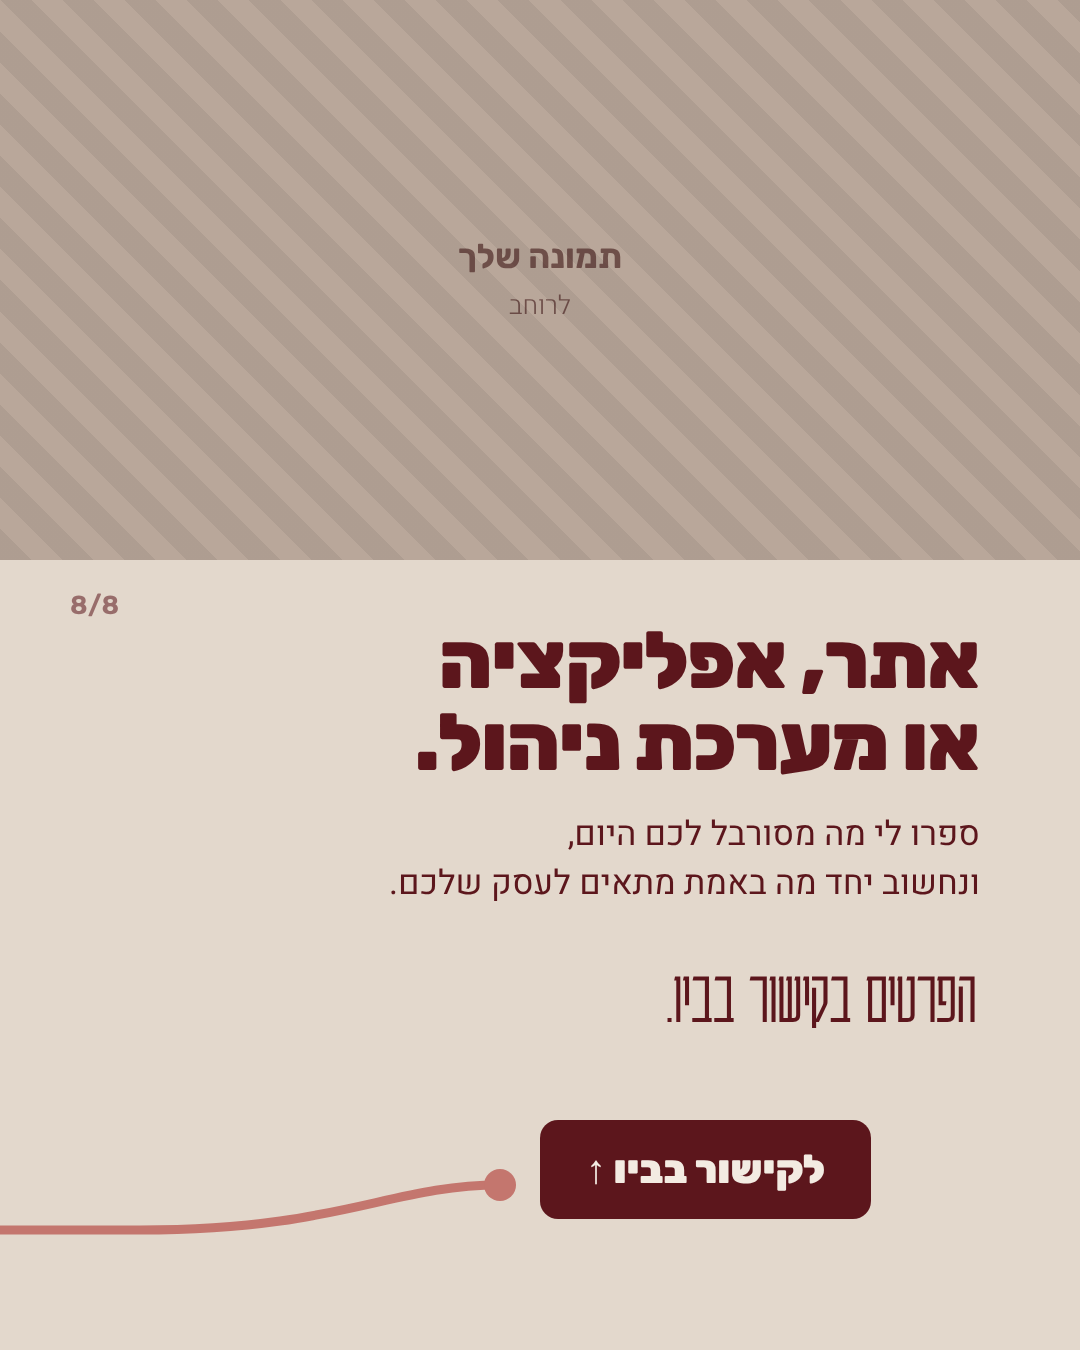
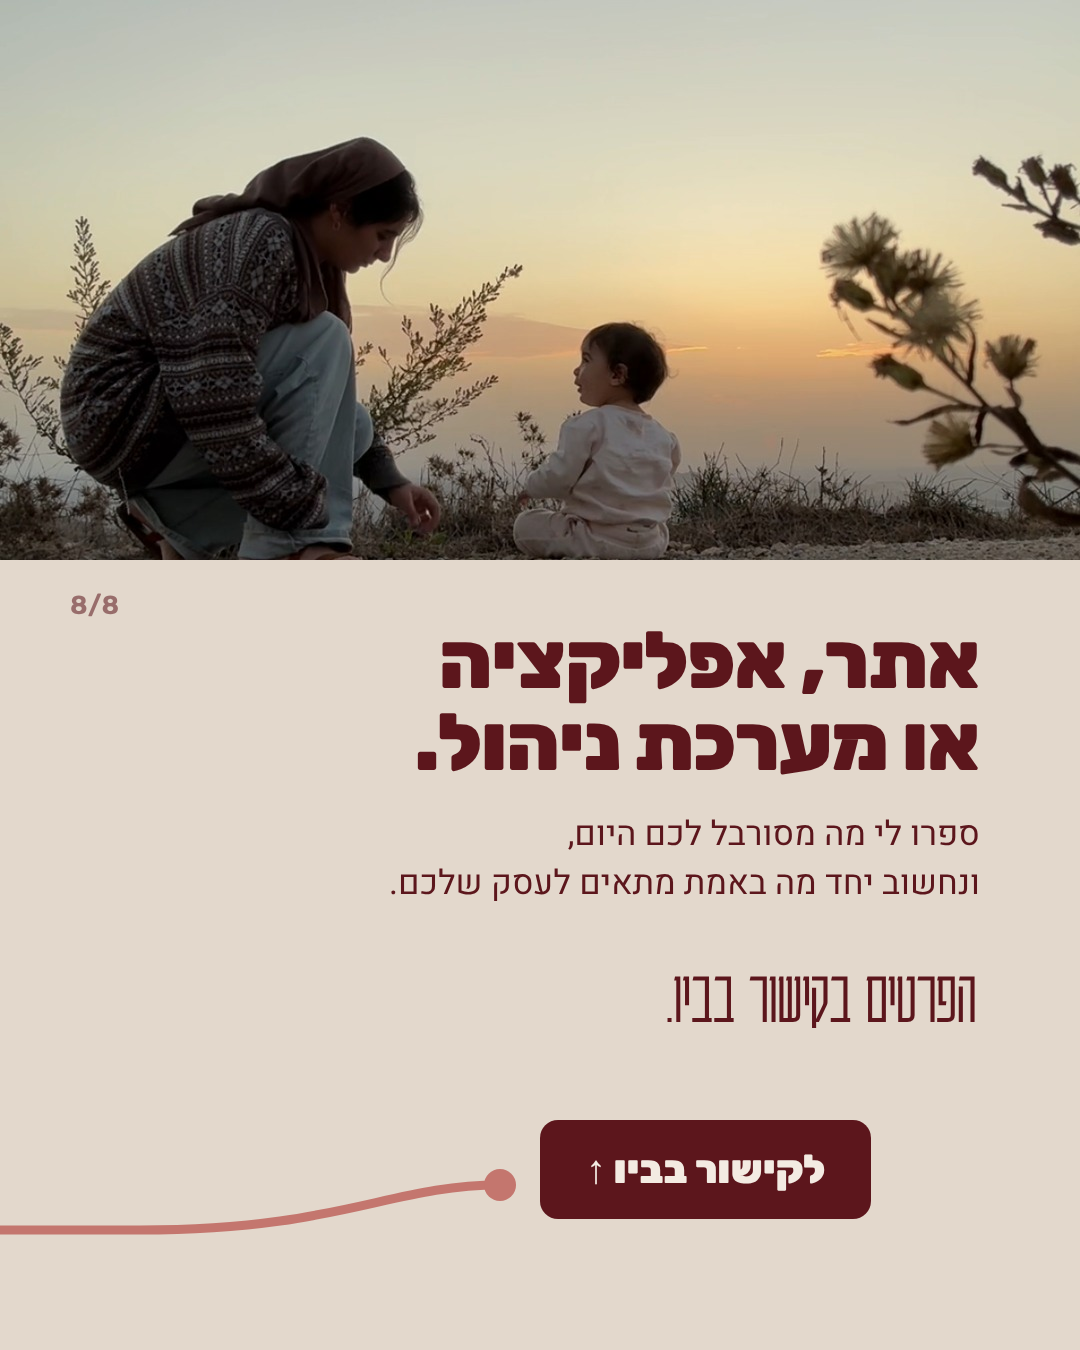
Carousel v2: add user photos and app screenshot
Claude-Session: https://claude.ai/code/session_01FAztRogrK4u7GmN3YWcRGe

diff --git a/carousels/small-business-v2/slides.html b/carousels/small-business-v2/slides.html
@@ -40,9 +40,9 @@ body{background:#111;width:8640px}
 <div class="bg" style="left:7560px;width:1080px;background:var(--sand)"></div>
 
 <!-- photos (under thread) -->
-<div class="ph" style="left:0;top:0;width:1080px;height:600px">תמונה שלך<small>לרוחב · את עם הטלפון / המחשב</small></div>
-<div class="ph" style="left:3240px;top:760px;width:1080px;height:590px">תמונה שלך<small>לרוחב · סביבת העבודה</small></div>
-<div class="ph" style="left:7560px;top:0;width:1080px;height:560px">תמונה שלך<small>לרוחב</small></div>
+<img class="abs" src="img/cover.jpg" style="left:0;top:0;width:1080px;height:600px;object-fit:cover">
+<img class="abs" src="img/desk.jpg" style="left:3240px;top:760px;width:1080px;height:590px;object-fit:cover">
+<img class="abs" src="img/family.jpg" style="left:7560px;top:0;width:1080px;height:560px;object-fit:cover;object-position:50% 40%">
 
 <!-- THE THREAD -->
 <svg class="abs" style="left:0;top:0;z-index:2" width="8640" height="1350" viewBox="0 0 8640 1350">
@@ -108,7 +108,7 @@ body{background:#111;width:8640px}
 <div class="abs K w" style="left:5400px;width:1080px;padding:0 100px;top:140px;font-size:100px">למשל,</div>
 <div class="abs R w" style="left:5400px;width:1080px;padding:0 100px;top:240px;font-size:84px">בניתי אפליקציה<br>למאמנת הרזיה.</div>
 <div class="abs H w" style="left:5940px;width:440px;top:520px;font-size:36px;line-height:1.45">כל לקוחה נכנסת ורואה את התפריט שלה ואת ההתקדמות. בלי לחפש בצ'אט.</div>
-<div class="abs" style="left:5470px;top:500px;width:440px;height:900px;border-radius:64px;border:16px solid #2a1214;background:#fbf6f2;transform:rotate(-7deg);box-shadow:30px 40px 60px rgba(92,22,28,.25);z-index:3;overflow:hidden"><div class="ph" style="inset:0;background:#efe6dd">צילום מסך<small>מהאפליקציה</small></div></div>
+<div class="abs" style="left:5470px;top:540px;width:440px;height:740px;border-radius:64px;border:16px solid #2a1214;background:#fbf6f2;transform:rotate(-7deg);box-shadow:30px 40px 60px rgba(92,22,28,.25);z-index:3;overflow:hidden"><img src="img/app.png" style="width:100%;display:block"></div>
 
 <!-- ===== 7 RECAP ===== -->
 <div class="meta c" style="left:6550px">@hadarelifergan · 7/8</div>
